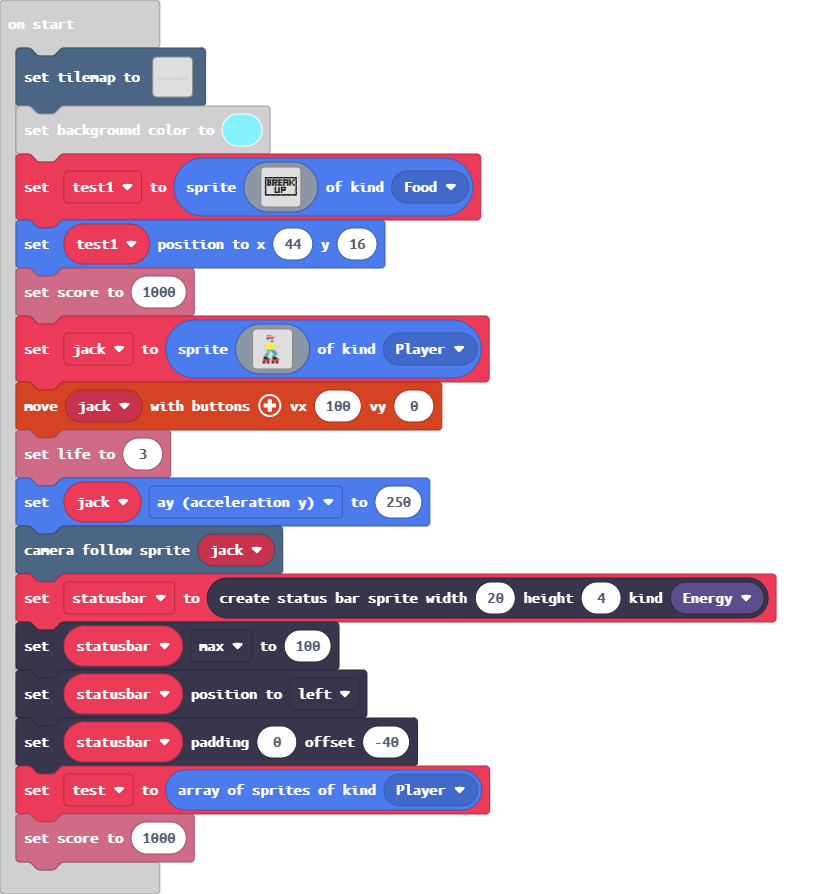
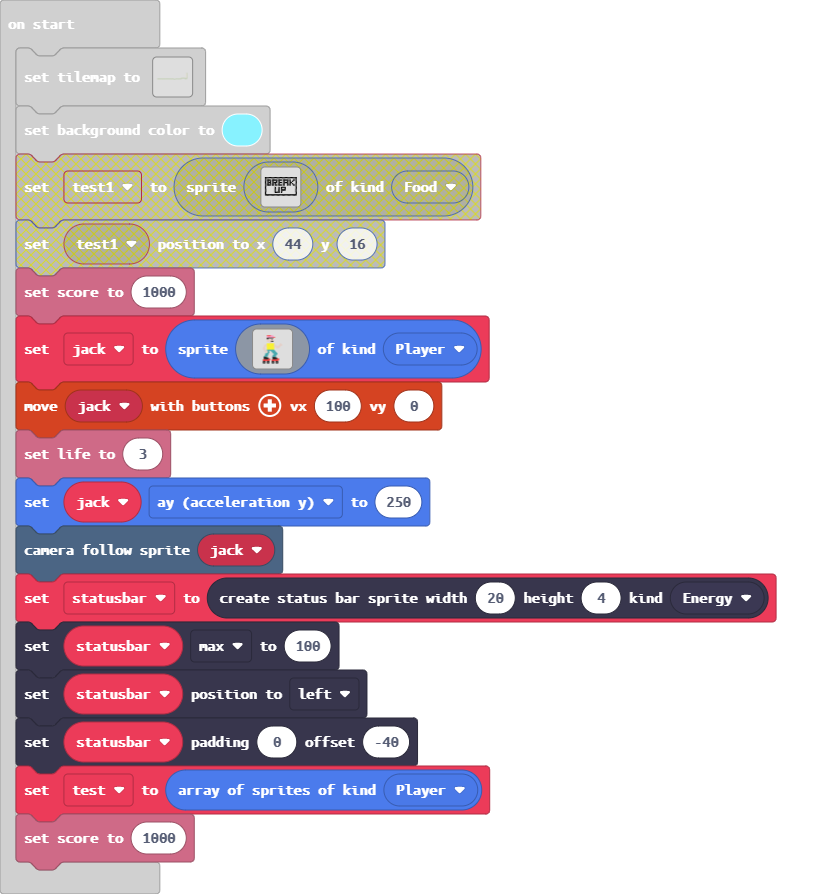
Update main.blocks, main.ts

diff --git a/main.ts b/main.ts
@@ -65,8 +65,6 @@ let statusbar: StatusBarSprite = null
 let jack: Sprite = null
 tiles.setTilemap(tilemap`level4`)
 scene.setBackgroundColor(9)
-let test1 = sprites.create(assets.image`image8`, SpriteKind.Food)
-test1.setPosition(44, 16)
 info.setScore(1000)
 jack = sprites.create(assets.image`image6`, SpriteKind.Player)
 controller.moveSprite(jack, 100, 0)
